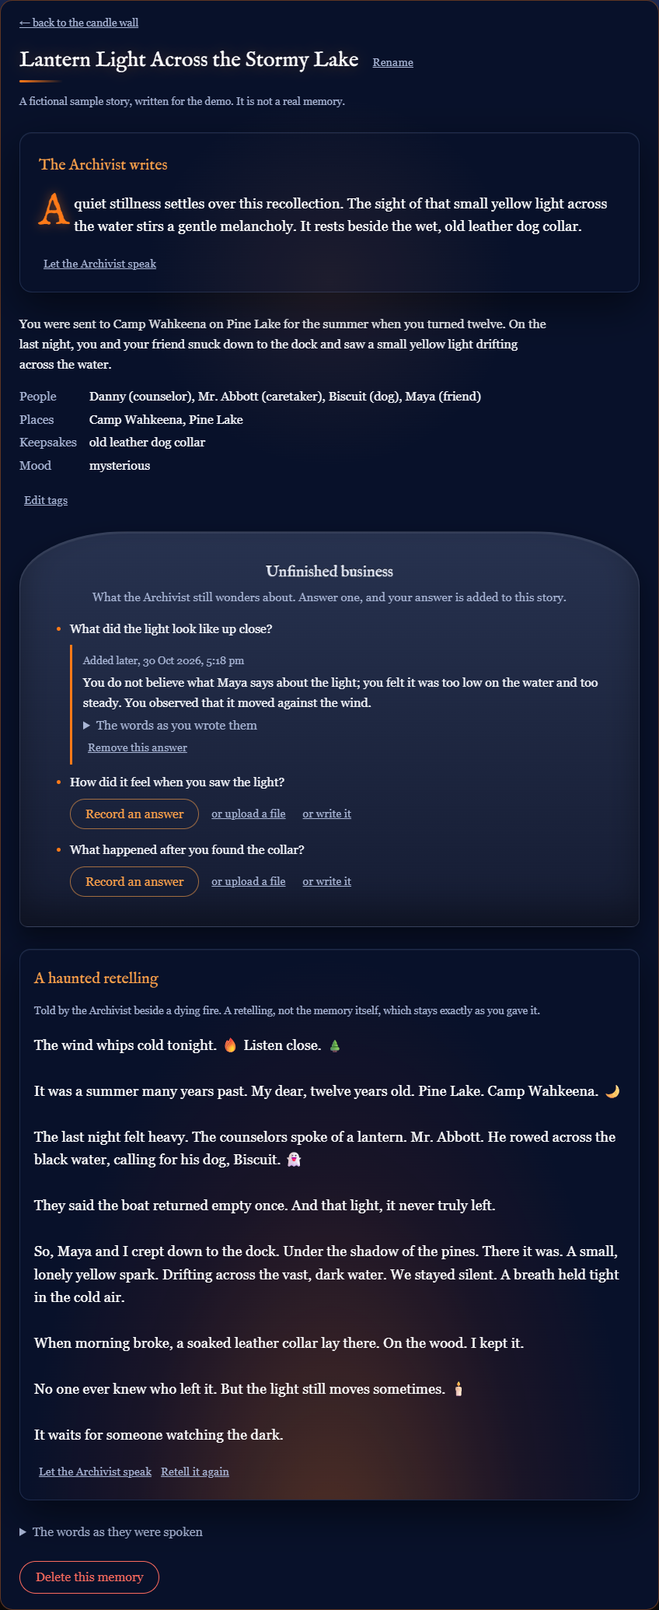
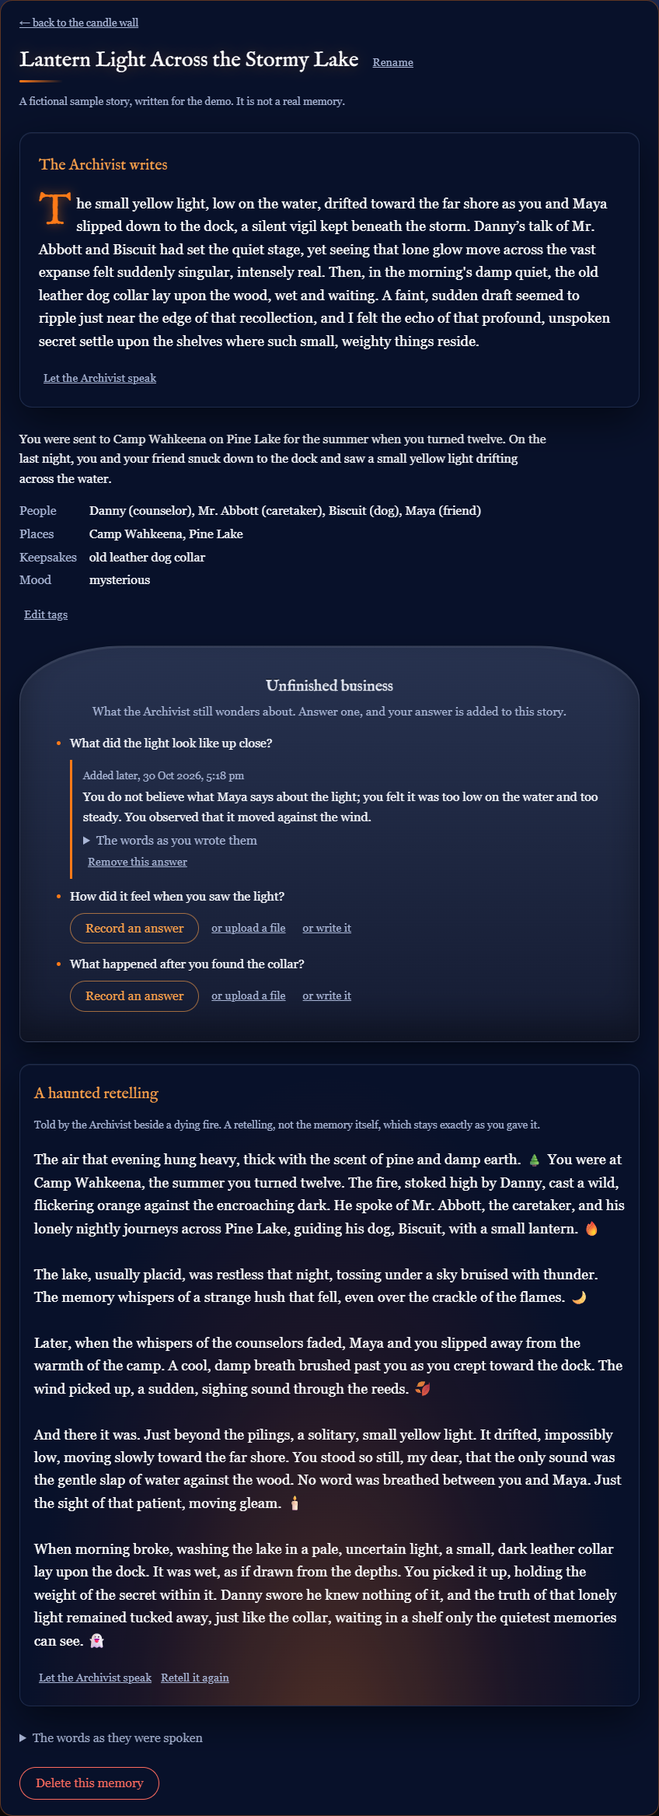
Docs, memory book and story screenshot for the livelier Archivist and sentence capitals

Changed region(s): [[0.0307, 0.0, 0.9811, 0.5565], [0.0307, 0.5874, 0.9505, 1.0]]

diff --git a/docs/book.html b/docs/book.html
@@ -45,67 +45,53 @@ ol li { margin: 4px 0; }
 <main>
 <div class="cover">
 <h1>The Memory Book</h1>
-<p class="hand">5 memories, kept by the ghost on this computer.</p>
+<p class="hand">6 memories, kept by the ghost on this computer.</p>
 <p class="meta">Written down by Ghostwriter on 30 October 2026.</p>
 <button class="print" onclick="print()">Print, or save as PDF</button>
 </div>
 <h3>Contents</h3>
-<ol><li><a href="#s1">Lantern Light Across the Stormy Lake</a></li><li><a href="#s2">The Scarecrow&#x27;s Visit on Halloween Night</a></li><li><a href="#s3">Halloween Power Outage in Duluth</a></li><li><a href="#s4">Scarf with a Note from Grandma Ruth</a></li><li><a href="#s5">Rainy Night Encounter on Route 9</a></li></ol>
+<ol><li><a href="#s1">Lantern Light Across the Stormy Lake</a></li><li><a href="#s2">The Scarecrow&#x27;s Visit on Halloween Night</a></li><li><a href="#s3">Halloween Power Outage in Duluth</a></li><li><a href="#s4">Scarf with a Note from Grandma Ruth</a></li><li><a href="#s5">Rainy Night Encounter on Route 9</a></li><li><a href="#s7">Campfire Story and Popping Fire</a></li></ol>
 <section class="story" id="s1">
 <h2>Lantern Light Across the Stormy Lake</h2>
 <p class="meta">30 October 2026 · mysterious · fictional sample</p>
 <p>You were sent to Camp Wahkeena on Pine Lake for the summer when you turned twelve. On the last night, you and your friend snuck down to the dock and saw a small yellow light drifting across the water.</p>
 <dl><dt>People</dt><dd>Danny (counselor), Mr. Abbott (caretaker), Biscuit (dog), Maya (friend)</dd><dt>Places</dt><dd>Camp Wahkeena, Pine Lake</dd><dt>Keepsakes</dt><dd>old leather dog collar</dd></dl>
 <h3>The words as they were spoken</h3><p class="transcript">The summer I turned twelve, my parents sent me to Camp Wahkeena, up on Pine Lake. On the last night, our counselor Danny built the campfire extra high and told us about the lantern. He said an old caretaker named Mr. Abbott used to row across the lake every night with a lantern, calling for his dog, Biscuit. One stormy night the boat came back empty, and ever since, if you sat by the water after midnight, you could see his light moving across the lake. Everybody laughed. But later, my friend Maya and I snuck down to the dock, and there it was. A small yellow light, low on the water, drifting toward the far shore. We didn&#x27;t say a word. In the morning there was an old leather dog collar lying on the dock, still wet. I kept it. Danny swore he had nothing to do with it, and I never found out who did.</p>
-<h3>The Archivist wrote</h3><p class="hand">A quiet stillness settles over this recollection. The sight of that small yellow light across the water stirs a gentle melancholy. It rests beside the wet, old leather dog collar.</p>
+<h3>The Archivist wrote</h3><p class="hand">The small yellow light, low on the water, drifted toward the far shore as you and Maya slipped down to the dock, a silent vigil kept beneath the storm. Danny’s talk of Mr. Abbott and Biscuit had set the quiet stage, yet seeing that lone glow move across the vast expanse felt suddenly singular, intensely real. Then, in the morning&#x27;s damp quiet, the old leather dog collar lay upon the wood, wet and waiting. A faint, sudden draft seemed to ripple just near the edge of that recollection, and I felt the echo of that profound, unspoken secret settle upon the shelves where such small, weighty things reside.</p>
 <h3>Unfinished business</h3><ul><li>What did the light look like up close?<div class="added"><p class="meta">Added later, 30 October 2026</p><p>You do not believe what Maya says about the light; you felt it was too low on the water and too steady. You observed that it moved against the wind.</p><p class="transcript">Maya still says it was just a firefly, but I don&#x27;t believe her. It was too low on the water and too steady, and it moved against the wind.</p></div></li><li>How did it feel when you saw the light?</li><li>What happened after you found the collar?</li></ul>
-<h3>A haunted retelling</h3><p class="meta">A retelling by the Archivist, not the memory itself.</p><p class="hand">The wind whips cold tonight. 🔥 Listen close. 🌲
+<h3>A haunted retelling</h3><p class="meta">A retelling by the Archivist, not the memory itself.</p><p class="hand">The air that evening hung heavy, thick with the scent of pine and damp earth. 🌲 You were at Camp Wahkeena, the summer you turned twelve. The fire, stoked high by Danny, cast a wild, flickering orange against the encroaching dark. He spoke of Mr. Abbott, the caretaker, and his lonely nightly journeys across Pine Lake, guiding his dog, Biscuit, with a small lantern. 🔥
 
-It was a summer many years past. My dear, twelve years old. Pine Lake. Camp Wahkeena. 🌙
+The lake, usually placid, was restless that night, tossing under a sky bruised with thunder. The memory whispers of a strange hush that fell, even over the crackle of the flames. 🌙
 
-The last night felt heavy. The counselors spoke of a lantern. Mr. Abbott. He rowed across the black water, calling for his dog, Biscuit. 👻
+Later, when the whispers of the counselors faded, Maya and you slipped away from the warmth of the camp. A cool, damp breath brushed past you as you crept toward the dock. The wind picked up, a sudden, sighing sound through the reeds. 🍂
 
-They said the boat returned empty once. And that light, it never truly left.
+And there it was. Just beyond the pilings, a solitary, small yellow light. It drifted, impossibly low, moving slowly toward the far shore. You stood so still, my dear, that the only sound was the gentle slap of water against the wood. No word was breathed between you and Maya. Just the sight of that patient, moving gleam. 🕯
 
-So, Maya and I crept down to the dock. Under the shadow of the pines. There it was. A small, lonely yellow spark. Drifting across the vast, dark water. We stayed silent. A breath held tight in the cold air.
-
-When morning broke, a soaked leather collar lay there. On the wood. I kept it.
-
-No one ever knew who left it. But the light still moves sometimes. 🕯
-
-It waits for someone watching the dark.</p>
+When morning broke, washing the lake in a pale, uncertain light, a small, dark leather collar lay upon the dock. It was wet, as if drawn from the depths. You picked it up, holding the weight of the secret within it. Danny swore he knew nothing of it, and the truth of that lonely light remained tucked away, just like the collar, waiting in a shelf only the quietest memories can see. 👻</p>
 </section><section class="story" id="s2">
 <h2>The Scarecrow&#x27;s Visit on Halloween Night</h2>
 <p class="meta">30 October 2026 · nostalgic · fictional sample</p>
 <p>You and your little brother made a plan to stay up and watch the scarecrow, Old Hollis, on Halloween night. In the morning, you found Old Hollis sitting on the porch swing, wearing a red wool scarf and with a mug of cocoa beside him.</p>
 <dl><dt>People</dt><dd>Grandpa Joe, Sam, Grandma</dd><dt>Places</dt><dd>Iowa</dd><dt>When</dt><dd>1996</dd><dt>Keepsakes</dt><dd>red wool scarf, mug of cocoa</dd></dl>
 <h3>The words as they were spoken</h3><p class="transcript">Every Halloween we drove out to Grandpa Joe&#x27;s farm in Iowa, and every Halloween he told us the same story. He said the scarecrow in the back field, the one he called Old Hollis, got cold on October nights and walked up to the porch to sit by the fire. My little brother Sam believed every word. So one year, I think it was 1996, Sam and I made a plan to stay up and catch him. We sat by the window with a flashlight and a bag of candy corn, and of course we fell asleep. In the morning, Old Hollis was sitting on the porch swing, wearing Grandpa&#x27;s red wool scarf, with a mug of cocoa next to him. Grandpa swore up and down he never touched him. Grandma just smiled and refilled the mug. I still have that scarf. It still smells a little like wood smoke.</p>
-<h3>The Archivist wrote</h3><p class="hand">A chill sweeps through these old recollections. The sight of Old Hollis upon the porch swing holds a gentle weight. I sense the faint scent of wood smoke clinging to the red wool scarf.</p>
+<h3>The Archivist wrote</h3><p class="hand">The red wool scarf, you say, still clings to the scent of wood smoke, a faint ghost of that Iowa autumn. You and Sam, huddled by the window with the flashlight beam dancing, waited for the silent procession of Old Hollis across the yard. The moment the morning broke, revealing the scarecrow seated upon the porch swing, draped in that crimson wool and beside a mug of cocoa, the narrative shifted from bedtime tale to palpable thing. I feel the slight, sudden drop in temperature near where that porch swing stood, a tiny draught escaping from some unseen crack in the memory’s frame. It stirs a deep, quiet wonder within me, like dust motes disturbed from a high, shadowed shelf.</p>
 <h3>Unfinished business</h3><ul><li>What did the scarecrow look like when he was sitting on the porch swing?</li><li>What did the wood smoke smell like?</li><li>What happened after you saw Old Hollis in the morning?</li></ul>
-<h3>A haunted retelling</h3><p class="meta">A retelling by the Archivist, not the memory itself.</p><p class="hand">The wind whistles low tonight. 🌬
+<h3>A haunted retelling</h3><p class="meta">A retelling by the Archivist, not the memory itself.</p><p class="hand">Hush now, my dear. Draw closer to the embers. 🔥 🌲
 
-Hear this memory. It came to me from the quiet spaces between heartbeats.
+It was a night thick with the scent of woodsmoke and the promise of old tales. Every year, the journey to Grandpa Joe’s farm in Iowa felt like stepping into a forgotten storybook. And every year, he would whisper the same thing about Old Hollis, the scarecrow in the back field. He swore that on October nights, the poor thing grew cold and would wander up to the porch to sit near the fire. 🌙
 
-It was Halloween night. 🎃 The shadows danced long across the Iowa fields. A whisper of the tale, Grandpa Joe would tell. Old Hollis, the scarecrow. He grew cold in the dark.
+Your little brother, Sam, he believed it with a fierce certainty that only childhood allows. So, one year, I recall it was nineteen ninety-six, Sam and you hatched a quiet, thrilling plan. You settled by the window, the beam of your flashlight cutting a small, hopeful circle through the gloom, and the bag of candy corn sat between you. Of course, the lure of such mystery proved too great, and sleep drifted over you both. 👻
 
-My dear, a little boy named Sam believed it all. We waited. We sat by the window. A flashlight beam cut the blackness. Candy corn sat beside us, untouched. 🍬
+The morning arrived, hushed and pale. You woke, and there, upon the porch swing, sat Old Hollis. He was there. He wore Grandpa’s red wool scarf, the color a startling splash against the weathered wood. Beside him rested a mug of cocoa. 🕯
 
-Sleep found us soon.
-
-When dawn crept in, the porch held a strange stillness. There he was. Old Hollis. Upon the swing. He wore Grandpa&#x27;s red wool scarf. 🔥 And by his worn boots, a mug of cocoa steamed faintly.
-
-Grandma smiled. She just smiled. And refilled the mug. 🌙
-
-That scarf remains. It carries the ghost scent of woodsmoke.
-
-Sometimes, the quietest things hold the deepest chill. 👻</p>
+The silence stretched, heavy and deep, until Grandpa Joe swore, “I never touched him.” Grandma, she merely smiled, a soft, knowing curve of her lips, and she replenished the mug. A strange, sweet aroma clung to the air. And you, you still hold that scarf. It carries the faintest ghost of wood smoke, doesn&#x27;t it? Look closely at the edge of it... for sometimes, the thread holds something that shouldn&#x27;t be there.</p>
 </section><section class="story" id="s3">
 <h2>Halloween Power Outage in Duluth</h2>
 <p class="meta">30 October 2026 · joyful · fictional sample</p>
 <p>You remember the power going out on your whole street in Duluth during trick-or-treating on Halloween in 2003. Your dad lined the porch steps with jack-o&#x27;-lanterns and told ghost stories to the kids who came by while your mom passed around cocoa.</p>
 <dl><dt>People</dt><dd>dad, mom</dd><dt>Places</dt><dd>Duluth</dd><dt>When</dt><dd>2003</dd><dt>Keepsakes</dt><dd>jack-o&#x27;-lanterns, cocoa</dd></dl>
 <h3>The words as they were written</h3><p class="transcript">On Halloween in 2003 the power went out on our whole street in Duluth, right when the trick-or-treaters came out. My dad lined the porch steps with jack-o&#x27;-lanterns and told a ghost story to every kid who came by, and by nine o&#x27;clock there were twenty kids sitting on our lawn in the dark. My mom passed around cocoa in paper cups. When the lights came back on, everybody groaned. Dad still says it was the best Halloween our street ever had.</p>
-<h3>The Archivist wrote</h3><p class="hand">The sudden silence of the street stirs a quiet ache. Twenty children sat on the lawn, bathed in the faint glow of those carved pumpkins.</p>
+<h3>The Archivist wrote</h3><p class="hand">The carved gourds, glowing faintly against the deepening dark of the Duluth street, held court on the porch steps. Your father, his voice low and resonant, spun tales of the spectral kind to the throng of twenty little ones gathered upon the lawn, while your mother offered the sweet warmth of cocoa from paper cups. It was when the sudden, absolute hush fell, broken only by the rustle of small costumes, that the memory truly shifted. The lights, when they finally sputtered back to life, seemed to banish not just the dark, but something else entirely. A faint scent of woodsmoke, perhaps, clung to the edges of that sudden illumination, and a sliver of a candle wick, long extinguished, seems to flutter just behind the vision. Such a quiet turning, it nudges the dust motes dancing in the currents of my own unseen passages.</p>
 <h3>Unfinished business</h3><ul><li>What did the lawn look like in the dark?</li><li>What did the cocoa taste like?</li></ul>
 </section><section class="story" id="s4">
 <h2>Scarf with a Note from Grandma Ruth</h2>
@@ -113,7 +99,7 @@ Sometimes, the quietest things hold the deepest chill. 👻</p>
 <p>You recall that your grandma Ruth knitted each of you a scarf every winter, and she would hide a folded note inside each one. In the year she died, you found one last scarf in her cedar chest with your name pinned to it, and the note inside simply said, &quot;still here.&quot;</p>
 <dl><dt>People</dt><dd>Grandma Ruth</dd><dt>Keepsakes</dt><dd>scarf, folded note</dd></dl>
 <h3>The words as they were written</h3><p class="transcript">Every winter my grandma Ruth knitted each of us a scarf, and she always hid a tiny pocket inside with a folded note. Mine usually said, be brave, little owl. The year she died, I found one last scarf in her cedar chest with my name pinned to it. The note in the pocket just said, still here. I wear it every Halloween, because she loved the cold.</p>
-<h3>The Archivist wrote</h3><p class="hand">A quiet chill settles upon this old place. The simplicity of &quot;still here&quot; echoes so softly. That single note held inside the scarf moved me deeply.</p>
+<h3>The Archivist wrote</h3><p class="hand">The cedar chest smelled richly of dried cedar and old wool, a scent that settles deep within the things I hold. Your hand, tracing the familiar weave of that last scarf, felt for the tiny pocket, and there lay the paper proclaiming, &quot;still here.&quot; That simple phrase, tucked inside the knitted warmth of your grandma Ruth’s making, felt impossibly solid against the quiet sorrow of her absence. It was the turning point, wasn&#x27;t it, when the expected words of courage gave way to such a gentle, persistent claim. A faint breath, like the settling of dust motes in a sunbeam, stirs in the air where that memory resides. Such profound persistence leaves a peculiar eddy in the currents of time around my shelf.</p>
 <h3>Unfinished business</h3><ul><li>What did the scarf feel like?</li><li>How did you feel when you found the last scarf?</li></ul>
 </section><section class="story" id="s5">
 <h2>Rainy Night Encounter on Route 9</h2>
@@ -121,8 +107,16 @@ Sometimes, the quietest things hold the deepest chill. 👻</p>
 <p>You recall an instance where a girl in a white raincoat was seen by a mile marker on Route 9 during heavy rain. After picking her up, you noticed the seat was wet when you arrived at her street, and the seat was empty.</p>
 <dl><dt>People</dt><dd>Uncle Ray</dd><dt>Places</dt><dd>Route 9, Millbrook, the Hollow</dd><dt>When</dt><dd>childhood</dd><dt>Keepsakes</dt><dd>photograph</dd></dl>
 <h3>The words as they were spoken</h3><p class="transcript">My Uncle Ray swears, this happened on Route 9, just outside of Millbrook, back when he drove a rusty blue pickup. It was raining hard and around two in the morning he saw a girl in a white raincoat standing by the mile marker. He pulled over and asked if she needed a ride. She said she was going home to see the Hollow and didn&#x27;t say another word the whole way. When he turned onto her street and looked over the seat was empty but the window was rolled down and the seat was soaking wet. The next day he went back to the house and an old woman answered the door. She showed him a photograph of her daughter in that same white raincoat. Uncle Ray still won&#x27;t drive Route 9 after dark.</p>
-<h3>The Archivist wrote</h3><p class="hand">A chill threads through this recollection, my dear. The sight of the soaking wet seat upon arrival troubles this old spirit. He saw the girl by the mile marker.</p>
+<h3>The Archivist wrote</h3><p class="hand">The white raincoat, slicked by the relentless rain on Route 9, stood sentinel beside the mile marker as the world rushed past in a blur of grey. &quot;I&#x27;m going home to see the Hollow,&quot; she murmured, offering no further word as the rusty blue pickup carried her toward her street. But when the turn was made, the seat held only the damp evidence of her passage, the window still lowered against the downpour. A draught, quite sudden, seemed to whisper where she should have been. It stirred in me a profound sense of unfinished arrival, like a tune cut short before the final, resonant note.</p>
 <h3>Unfinished business</h3><ul><li>What did the old woman say when she showed you the photograph?</li><li>What did the girl say about going home to see the Hollow?</li><li>How did the seat feel when you noticed it was soaking wet?</li></ul>
+</section><section class="story" id="s7">
+<h2>Campfire Story and Popping Fire</h2>
+<p class="meta">30 October 2026 · nostalgic · fictional sample</p>
+<p>You were sitting around the campfire while Grandpa began a story about a hitchhiker on Route Nine. The fire popped loudly, causing your cousin to drop her marshmallow into the coals.</p>
+<dl><dt>People</dt><dd>Grandpa, cousin</dd><dt>Places</dt><dd>Route Nine</dd><dt>Keepsakes</dt><dd>marshmallow</dd></dl>
+<h3>The words as they were spoken</h3><p class="transcript">We were sitting around the campfire when Grandpa started the story about the hitchhiker on Route Nine, and the fire popped so loud that my cousin dropped her marshmallow in the coals.</p>
+<h3>The Archivist wrote</h3><p class="hand">The crackle of the campfire was a steady, warm breath against the encroaching dark as Grandpa began his tale of the hitchhiker on Route Nine. Suddenly, a sharp *pop* erupted from the logs, so sudden it snatched the breath from the small circle of listeners. Your cousin, startled by the sound, let her sugary offering tumble straight into the hungry coals, a tiny, blackened casualty to the sudden noise. It was in that sharp, unexpected burst of fire that the solemnity of the story fractured. Such a small thing, a ruined marshmallow, yet it sent a faint, quick draught swirling past the edges of the circle. This little hiccup in the retelling stirred a deep ache in the quiet shelves where I keep such brief disruptions.</p>
+<h3>Unfinished business</h3><ul><li>What did Grandpa say about the hitchhiker?</li><li>What did the fire look like when it popped so loud?</li></ul>
 </section>
 </main>
 </body>

diff --git a/README.md b/README.md
@@ -32,8 +32,9 @@ _Demo video: [PLACEHOLDER]_
   other voices, a campfire's rumble, a far-off voice and rushed, muffled speech (Listening, below).
 - **Or write it down.** No microphone, a noisy room, or a story that needs a second try? Write it on
   a page of ruled paper, with the browser's spell check and an offline autocorrect that fixes common
-  typos and missing apostrophes as you type ("teh" -> "the", "dont" -> "don't"; Backspace straight
-  after puts your word back; it can be switched off). The draft is kept if you leave the page. Gemma
+  typos and missing apostrophes and capitalises each sentence and quoted speech as you type ("teh" ->
+  "the", "dont" -> "don't", 'he said "dad' -> 'he said "Dad'; Backspace straight after puts your
+  word back; it can be switched off). The draft is kept if you leave the page. Gemma
   reads a written story exactly like a recording. Answers to questions can be written too.
 - **Won't invent a memory from noise.** Before Gemma reads anything, a quality check looks at
   Whisper's own confidence. A recording that came out as fog is marked *unclear*, with no made-up
@@ -62,12 +63,17 @@ _Demo video: [PLACEHOLDER]_
   (poignant), an iron lantern (mysterious), a skull (eerie). A story you haven't opened for a while
   burns low; opening it relights it. Search titles and summaries, filter by person, place, era,
   keepsake or mood; the filter stays in the address.
+- **The Archivist writes back.** Every story gets a note from the ghost (90-130 words): it retells the
+  heart of the story in its own voice, dwells on the moment where it turns, and lets slip something of
+  its own ghostly ways (it has kept stories since the house was lit by oil lamps). It never solves a
+  mystery your story leaves open, and never adds a fact you didn't give it.
 - **Whispers.** On launch the Archivist sometimes murmurs a line from a faded story, and says which.
 - **Ghost voice.** The Archivist can speak, using Piper text-to-speech with ffmpeg effects. It starts
   with the first sentence while the rest is made; notes are voiced in advance. Optional.
-- **Haunted retelling.** One click retells a memory as a campfire ghost story, with a few emojis to
-  set the mood (the voice skips them), labelled as a retelling and stored separately; the original is
-  never changed.
+- **Haunted retelling.** One click retells a memory as a campfire ghost story of 300-450 words, told
+  to you, building slowly to your story's own twist: every event kept in order, every spoken line word
+  for word, only the atmosphere added, with three to five emojis to set the mood (the voice skips
+  them). It is labelled as a retelling and stored separately; the original is never changed.
 - **Memory book.** Every story, with its answers, notes and retellings, as one self-contained page
   (`/book`) to print, save as a PDF, or keep.
 - **Plain mode.** One switch for neutral wording, simple cards and no animation or decoration.
@@ -221,7 +227,8 @@ Intel i7-13620H, 16 GB RAM, integrated graphics only (everything on the CPU):
 | Seance answer | first words after 7-24 s, complete in 11-29 s; "never given to me" in 0.1 s |
 | Meaning search (EmbeddingGemma) | 60-80 ms per question |
 | Ghost voice | first sentence of a new text in 2.3 s; a note voiced in advance starts in 0.1 s |
-| Haunted retelling | about 30 s to write ~140 words |
+| Haunted retelling | 45-80 s to write 250-350 words (it appears word by word as it is written) |
+| The Archivist's note | 21-38 s for 100-125 words, written while the story is processed |
 
 ## Limitations
 
@@ -259,7 +266,7 @@ default) are documented there, with the prefix `GW_`.
 Most tests fake Gemma and Whisper, so they run without the models. One asks the real EmbeddingGemma
 when it is pulled ("tall tales" must find the scarecrow story by meaning alone). `tests/test_smoke.py` drives the real
 page in your installed Google Chrome (no browser download) through upload, rename, tags, an answer,
-the Seance, the memory book, a bad file, writing a story (autocorrect, Backspace to undo a fix, the
+the Seance, the memory book, a bad file, writing a story (autocorrect, sentence capitals, Backspace to undo a fix, the
 kept draft, a written answer), delete and undo, plain mode, the microphone (Chrome's fake microphone)
 and a check that no decoration covers text at 390 and 1280 px.
 

diff --git a/HOW_IT_WORKS.md b/HOW_IT_WORKS.md
@@ -67,7 +67,9 @@ Memory accuracy is the whole product, so most of the work goes into the words.
   with the text) with the browser's own spell check (red underlines, right-click suggestions) and an
   offline autocorrect (`autocorrect.js`): when you finish a word, a short list of unambiguous typos
   and missing apostrophes is fixed ("teh" -> "the", "dont" -> "don't", "halloween" -> "Halloween";
-  real words like "wont" or "its" are never touched). The fix goes through the browser's own editing
+  real words like "wont" or "its" are never touched), and a word that starts a sentence, a line or
+  quoted speech gets its capital, as a phone keyboard would ("Mr.", initials, "e.g." and "..." don't
+  end a sentence). The fix goes through the browser's own editing
   command, so Ctrl+Z undoes it, and Backspace straight after puts your word back and leaves it alone
   from then on. It can be switched off, and the draft is kept in the browser if you leave the page. A
   written story (`POST /api/stories/written`, 20 to 20,000 characters) starts with its words, so the
@@ -226,8 +228,11 @@ they fit both. Plain mode also shows each story as a simple card with a mood-col
 candle art, stops every animation, and hides the decoration; it never hides a feature (the
 Archivist's note becomes the "AI note").
 
-All prompts live in `prompts.py`. The persona is warm, old-fashioned and never cruel, and is forbidden
-machine words ("memory banks"); the Seance speaks to "you", never "the speaker".
+All prompts live in `prompts.py`. The persona has a history and habits: it has kept stories since the
+house was lit by oil lamps, on shelves only it can see; it is curious, a little wry and fond of a good
+scare, never cruel; it notices small things and the moment a story turns, and now and then lets slip
+its own ghostly ways (a draught, a guttering candle). It is forbidden machine words ("memory banks")
+and openings about the cold; the Seance speaks to "you", never "the speaker".
 
 ## 11. The candle wall
 
@@ -263,9 +268,18 @@ pressing play on a note starts at once (measured: 0.1 s).
 The Archivist's note and the haunted retelling share one helper: replay what is stored, otherwise
 stream it from Gemma and store it at the end. The note is written during processing, so opening a
 story is instant. The retelling has its own column, so the original can never be overwritten by it;
-"Retell it again" replaces it only once the new one is complete. The retelling prompt asks for a few
-emojis (about one every two or three sentences, at the end of a sentence, never in place of a word),
-which makes it livelier to read; `tts.clean()` strips them, so the voice never reads them out.
+"Retell it again" replaces it only once the new one is complete.
+
+- **The note** (90-130 words) begins on something concrete from the story, retells its heart, dwells on
+  the turn, and ends with what it stirred in the ghost. The first version (two or three sentences) was
+  generic and could miss a story's twist entirely.
+- **The retelling** is a short brief (tell it aloud around a fire: set the scene, build, let the turn
+  land, end on a chilling line) followed by a numbered checklist, because a 4B model keeps rules best
+  when they come last and are short: tell it to the storyteller as "you", never as "I"; never change
+  or contradict an event; keep spoken lines word for word; mood but no new events; 300-450 words;
+  three to five emojis, each at the end of a sentence. Measured on the way: a looser prompt at
+  temperature 0.9 had the ghost tell the story as if it happened to it, and once reversed the very
+  thing the storyteller found; with the checklist at 0.7 the retellings kept every event and line. `tts.clean()` strips the emojis, so the voice never reads them out.
 
 ## 14. The memory book
 

diff --git a/PROGRESS.md b/PROGRESS.md
@@ -13,6 +13,29 @@ _Last updated: Fri Oct 30, 2026_
 - **Remaining work is the user's**: record the demo, fill the personal placeholders, publish (see
   "Next actions").
 
+## Oct 30 (night): sentence capitals, a livelier Archivist, fuller notes and retellings
+
+The user wrote a short story with a twist and found the capitals inconsistent and the Archivist's
+response weak.
+
+- **Autocorrect** fixed "i" and "im" but not sentence starts, so text came out half capitalised. Now a
+  word that starts the text, a sentence, a line or quoted speech gets its capital (typed key by key in
+  Chrome: 'he said "dad, im scared. there is...' -> 'He said "Dad, I'm scared. There is...'). "Mr.",
+  initials, "e.g." and "..." don't end a sentence; capital-only changes show no notice. Bug fixed:
+  Backspace could undo an old fix if the cursor came back to it; now only straight after the fix.
+- **What the user heard was the note**, not a retelling (the log shows no retelling request): three
+  general sentences that missed the twist. The note is now 90-130 words, opens on something concrete,
+  retells the heart, dwells on the turn, never solves what the story leaves open, and ends with a
+  ghostly aside. Measured: 101-125 words in 21-38 s.
+- **Persona**: a history (stories kept since the house was lit by oil lamps, on unseen shelves), habits
+  (a draught, a guttering candle), curious and a little wry; no openings about the cold.
+- **Retelling**: brief + numbered checklist, temperature 0.9 -> 0.7. On the way: the looser prompt told
+  it as "I" (as if it happened to the ghost) and once reversed what the storyteller found; the
+  checklist version kept every event and spoken line, told to "you", 248-280 words with 5-6 emojis in
+  47-49 s. TTS limit 2,500 -> 3,500 characters so a whole retelling is spoken.
+- Notes in demo-data and the showcase rewritten with the new prompt (and voiced in advance); the
+  showcase retellings regenerated; `docs/book.html` and `story.png` rebuilt from them.
+
 ## Oct 30 (evening): English only, written stories, emoji retellings, campfire samples
 
 The user tested recording: English came out right word for word (summary and questions good); Hindi

diff --git a/POST_DRAFT.md b/POST_DRAFT.md
@@ -35,8 +35,10 @@ out loud (or write it down, if there's no good microphone nearby), and it:
   with a green flame for the eerie ones, a jack-o'-lantern for the joyful, a clay oil lamp for the
   loving.
   Stories you haven't opened in a while burn low. Open one, and its flame comes back;
+- **writes back**: every story gets a note from the ghost that retells its heart and lingers on the
+  moment it turns, without ever solving a mystery you left open;
 - **speaks** in a low, echoing voice, and on request **retells** any memory as a campfire ghost
-  story, with a few emojis to set the mood 🔥🌙 (always labelled as a retelling; the original is
+  story, building slowly to your own twist, with a few emojis to set the mood 🔥🌙 (always labelled as a retelling; the original is
   never touched).
 
 The rule that makes it work is a story mechanic as much as a technical one: **the ghost can only
